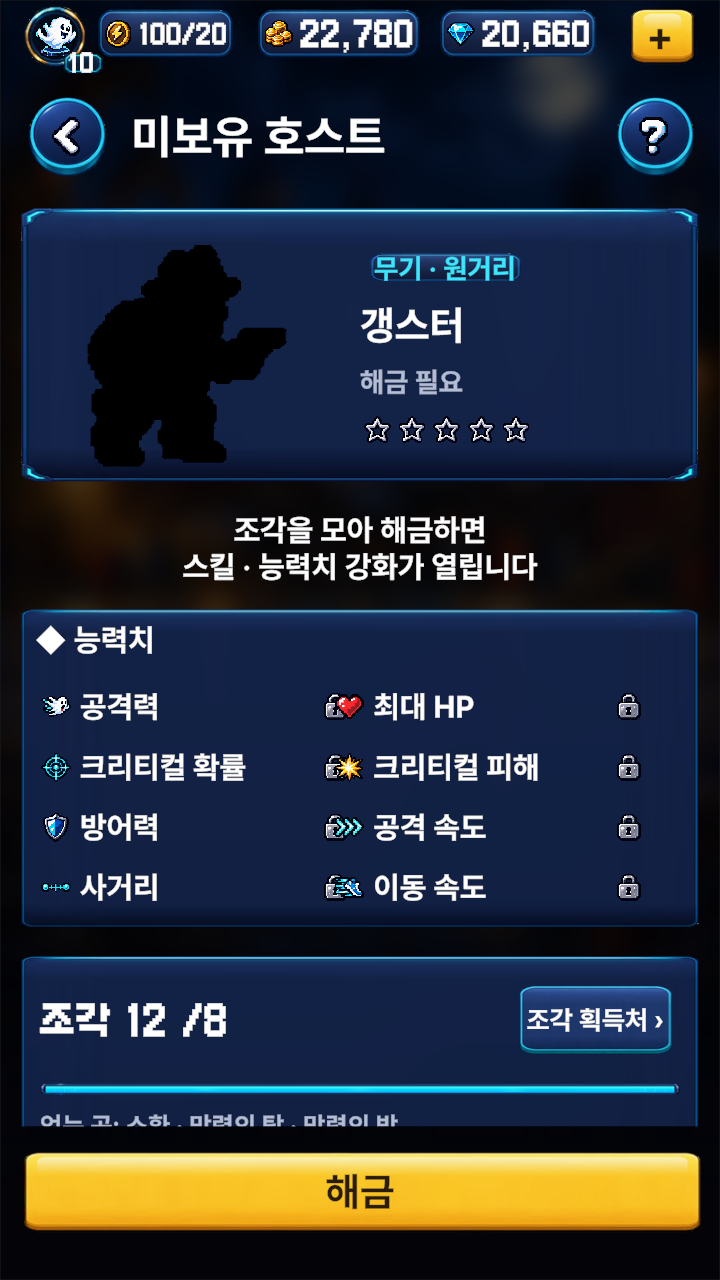
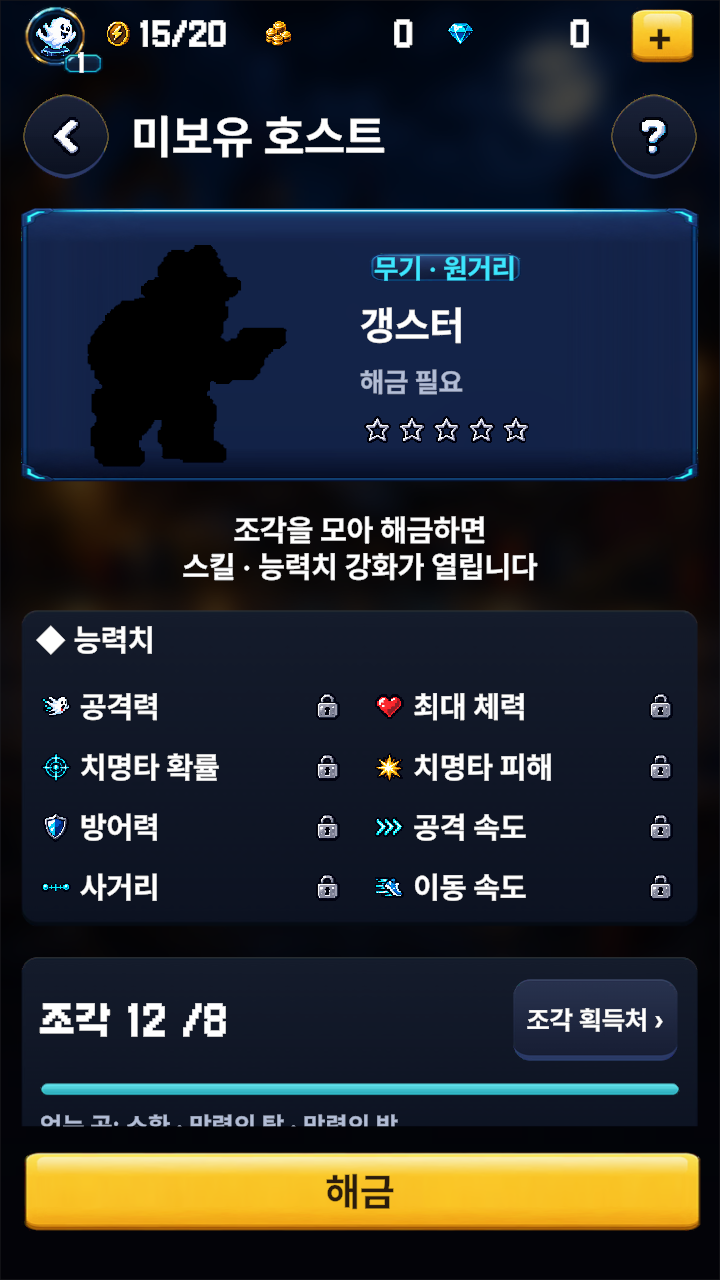
AVSR 미보유 호스트 능력치 목록 — 두 칸을 판 폭으로 나누고 자물쇠를 제 칸 오른쪽 끝으로(왼쪽 칸 자물쇠가 오른쪽 칸 아이콘과 겹쳤다, PD 2026-10-28)

diff --git a/Assets/Scripts/Editor/ReBorn/RbHostLockBuilder.cs b/Assets/Scripts/Editor/ReBorn/RbHostLockBuilder.cs
@@ -53,10 +53,11 @@ namespace Game.Editor.ReBorn
             float[] rows = { 1200, 1291, 1381, 1471 };
             for (int i = 0; i < Stats.Length; i++)
             {
-                float x0 = i % 2 == 0 ? 60 : 500, y = rows[i / 2];
+                // 두 칸 — 왼쪽 60~520 · 오른쪽 560~1020. 자물쇠는 제 칸 오른쪽 끝(예전엔 왼쪽 칸 자물쇠가 482 라 오른쪽 칸 아이콘 500 과 겹쳤다, PD 2026-10-28)
+                float x0 = i % 2 == 0 ? 60 : 560, y = rows[i / 2];
                 Img(PlaceIn(Node(body, $"LckStat{i}Icon"), T, x0, y - 24, x0 + 48, y + 24), $"Icons/{Stats[i].icon}_48");
                 Text(PlaceIn(Node(body, $"LckStat{i}Name"), T, x0 + 60, y - 30, x0 + 360, y + 30), Stats[i].key, Stats[i].ko, 46, White, TA.Left, heavy: true);
-                Img(PlaceIn(Node(body, $"LckStat{i}Lock"), T, x0 + 422, y - 22, x0 + 466, y + 22), "Icons/rb_icon_sys_lock_48");
+                Img(PlaceIn(Node(body, $"LckStat{i}Lock"), T, x0 + 410, y - 22, x0 + 454, y + 22), "Icons/rb_icon_sys_lock_48");
             }
 
             var shard = PlaceIn(Node(body, "LckShard"), T, 31, 1574, 1048, 1883);
